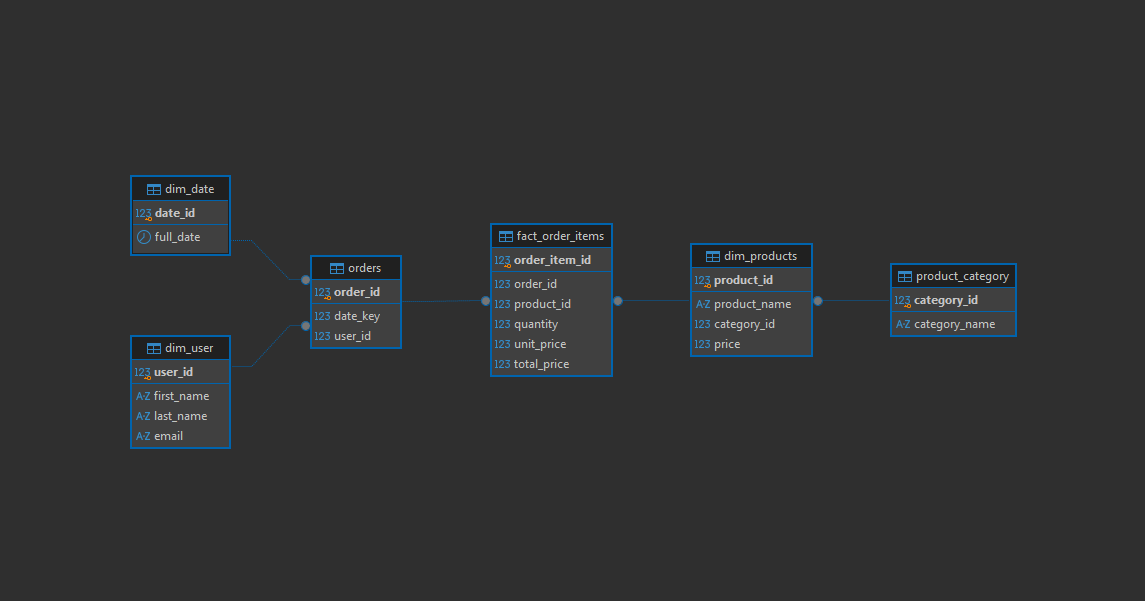
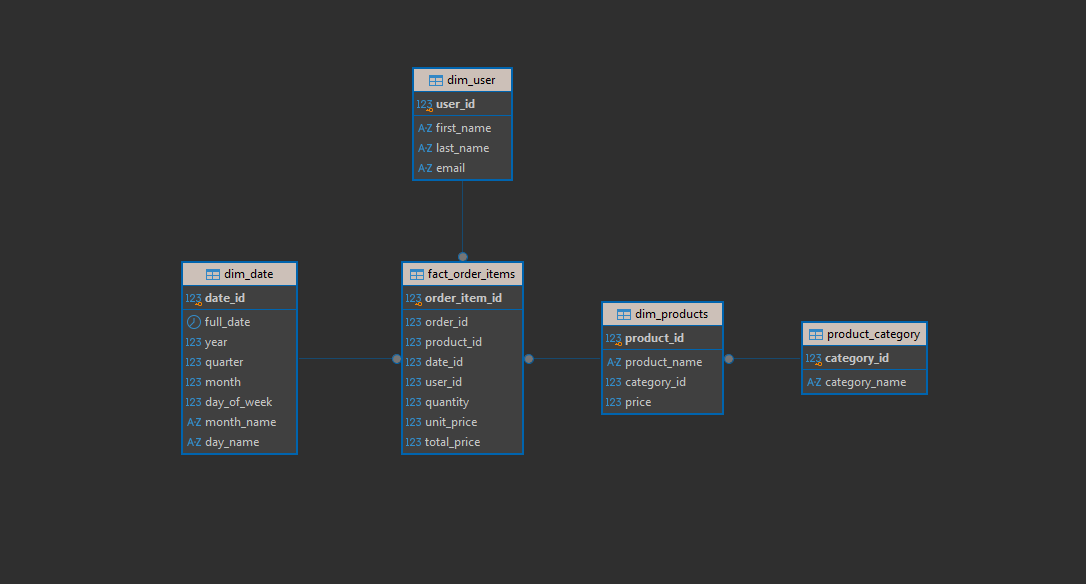
Add md report

Changed region(s): [[0.0912, 0.2774, 0.9116, 0.8014], [0.3646, 0.0925, 0.4862, 0.3082], [0.6381, 0.6781, 0.6685, 0.7089]]

diff --git a/DB_DataWarehouse_5/Report.md b/DB_DataWarehouse_5/Report.md
@@ -1,0 +1,157 @@
+# Homework 5
+
+## 1. Selected Business Process & Data Grain
+* **Business Process:** **Online Electronics Store Sales**.
+* **Data Grain (Level of Detail):** **One row in the fact table corresponds to an atomic line item within an order**. This ensures high granularity for evaluating specific product sales, exact transaction timestamps, and individual buyer behavior.
+
+## 2. Dimensional Model Architecture (Snowflake Schema)
+The architecture is structured as a **Snowflake Schema**, which normalizes dimensional branches.
+* **`fact_order_items` (Fact Table):** The core analytical table storing quantitative business events, transaction foreign keys (`product_id`, `date_id`, `user_id`), and computed financial parameters.
+* **`dim_products` (Dimension Table):** Represents specific store merchandise and acts as a bridge to normalization.
+* **`product_category` (Snowflake Sub-Dimension):** Normalizes categories out of the product table, transforming the model into a Snowflake structure.
+* **`dim_user` (Dimension Table):** Contains structural parameters defining corporate customers or individual store buyers.
+* **`dim_date` (Dimension Table):** A comprehensive time dimension breaking down physical calendar metrics into quarters, specific months, and weekdays for deep time-series analysis.
+
+---
+
+## 3. SQL Data Definition Language (DDL) Script
+```sql
+-- 1. Create snowflake dimension
+CREATE TABLE product_category (
+    category_id INT PRIMARY KEY,
+    category_name VARCHAR(255) NOT NULL UNIQUE 
+);
+
+-- 2. Create products dimension
+CREATE TABLE dim_products (
+    product_id INT PRIMARY KEY,
+    product_name VARCHAR(255) NOT NULL,
+    category_id INT NOT NULL,
+    price DECIMAL(10, 2) NOT NULL,
+    FOREIGN KEY (category_id) REFERENCES product_category(category_id)
+);
+
+-- 3. Create user dimension
+CREATE TABLE dim_user (
+    user_id INT PRIMARY KEY,
+    first_name VARCHAR(100) NOT NULL,
+    last_name VARCHAR(100) NOT NULL,
+    email VARCHAR(255) UNIQUE NOT NULL
+);
+
+-- 4. Create date dimension
+-- Add column year, quarter, month, day_of_week, month_name, and day_name for analytics
+CREATE TABLE dim_date (
+    date_id INT PRIMARY KEY,
+    full_date DATE NOT NULL UNIQUE, 
+    -- Add UNIQUE constraint on full_date to prevent duplicate date entries
+    -- One date_id can be reused across many fact records
+    year INT NOT NULL,
+    quarter INT NOT NULL CHECK (quarter BETWEEN 1 AND 4),
+    month INT NOT NULL CHECK (month BETWEEN 1 AND 12),
+    day_of_week INT NOT NULL CHECK (day_of_week BETWEEN 1 AND 7),
+    month_name VARCHAR(20),
+    day_name VARCHAR(20)
+);
+
+-- 5. Create fact table - business action (purchase, transaction)
+CREATE TABLE fact_order_items (
+    order_item_id INT PRIMARY KEY,
+    order_id INT NOT NULL,
+    product_id INT NOT NULL,
+    date_id INT NOT NULL,
+    user_id INT NOT NULL,
+    quantity INT NOT NULL CHECK (quantity > 0),
+    unit_price DECIMAL(10, 2) NOT NULL,
+    total_price DECIMAL(10, 2) GENERATED ALWAYS AS (quantity * unit_price) STORED, -- Added a calculation of the total cost
+    FOREIGN KEY (product_id) REFERENCES dim_products(product_id),
+    FOREIGN KEY (date_id) REFERENCES dim_date(date_id),
+    FOREIGN KEY (user_id) REFERENCES dim_user(user_id)
+);
+```
+
+---
+
+## 4. Business Analytical SQL Queries
+
+### Query 1: Top-5 Best-Selling Products in Each Category
+Evaluates performance metrics within distinct groupings utilizing window functions to ranking category drivers.
+```sql
+-- Top-5 best-selling products in each category
+SELECT 
+    dp.product_name,
+    pc.category_name,
+    SUM(foi.quantity) AS units_sold,
+    SUM(foi.total_price) AS revenue,
+    ROW_NUMBER() OVER (PARTITION BY pc.category_name ORDER BY SUM(foi.total_price) DESC) AS category_rank -- Add Window Function
+FROM fact_order_items foi
+JOIN dim_products dp 
+	ON foi.product_id = dp.product_id
+JOIN product_category pc 
+	ON dp.category_id = pc.category_id
+GROUP BY dp.product_name, pc.category_name;
+```
+
+### Query 2: Daily Sales Dynamics (Revenue vs Volume Trajectories)
+Identifies high-performing operational loops (promotions, holidays, corporate shifts) through dual tracking configurations.
+```sql
+-- We can see on which days the store generated the highest profit (for example, during holidays or sales)
+SELECT 
+    dd.full_date AS Date,
+    SUM(foi.total_price)
+FROM fact_order_items foi
+JOIN dim_date dd 
+	ON foi.date_id = dd.date_id
+GROUP BY dd.full_date
+ORDER BY SUM(foi.total_price) DESC;
+
+-- Or the highest sales volume
+SELECT 
+    dd.full_date AS Date,
+    SUM(foi.quantity)
+FROM fact_order_items foi
+JOIN dim_date dd 
+	ON foi.date_id = dd.date_id
+GROUP BY dd.full_date
+ORDER BY SUM(foi.quantity) DESC;
+```
+
+### Query 3: Top Corporate/Retail Customers Identification
+Isolates critical target shoppers to drive customer loyalty strategies and targeted marketing loops.
+```sql
+-- We can view the top customers of our store (honestly, I don't think this is practical for a large store, but the capability exists).
+SELECT 
+    du.first_name,
+    du.last_name,
+    du.user_id,
+    SUM(foi.total_price)
+FROM fact_order_items foi
+JOIN dim_user du 
+	ON foi.user_id = du.user_id
+GROUP BY du.user_id 
+ORDER BY SUM(foi.total_price) DESC
+LIMIT 10;
+```
+
+### Query 4: Core Category Profitability Matrices
+Evaluates holistic operational trajectories by tracing gross margins and bulk volume rankings across the catalog.
+```sql
+-- To see which category is the most profitable (or if sorting by total_units_sold the best-selling)
+SELECT 
+    pc.category_name,
+    SUM(foi.quantity) AS total_units_sold,
+    SUM(foi.total_price) AS total_revenue
+FROM fact_order_items foi
+JOIN dim_products dp 
+	ON foi.product_id = dp.product_id
+JOIN product_category pc 
+	ON dp.category_id = pc.category_id
+GROUP BY pc.category_name
+ORDER BY total_revenue DESC;
+```
+
+---
+
+## 5. ER-diagram
+
+![ER-diagram](Screenshots/ER-diagram_snowflake.png)
